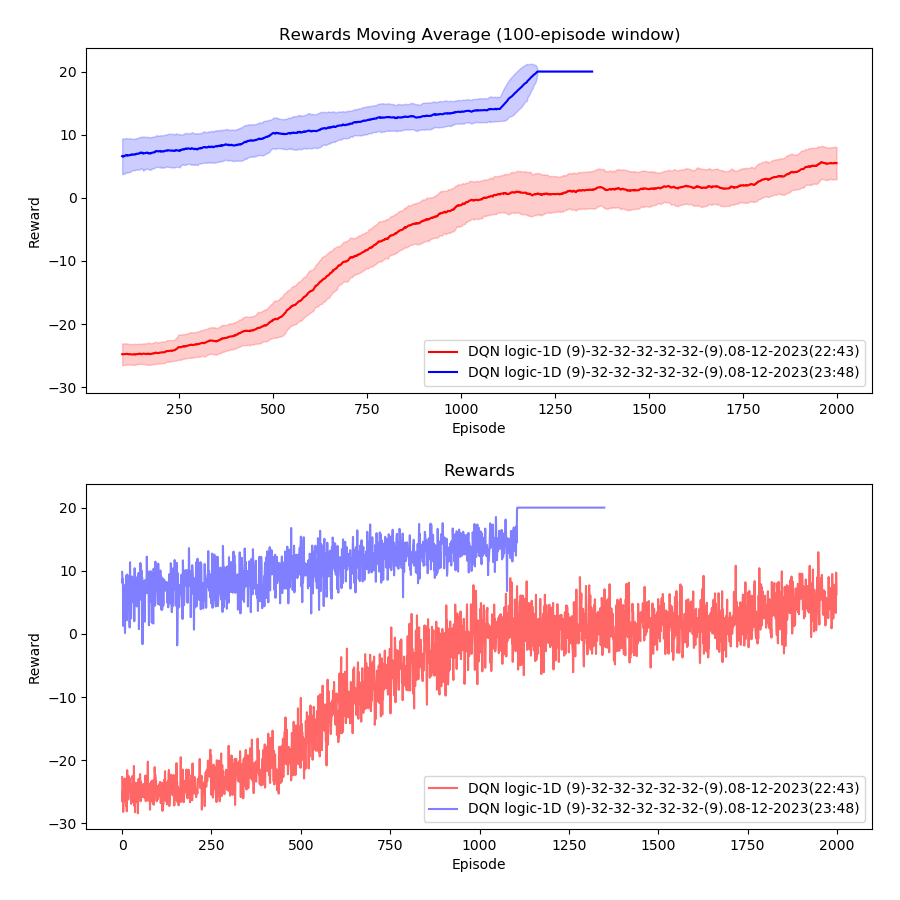
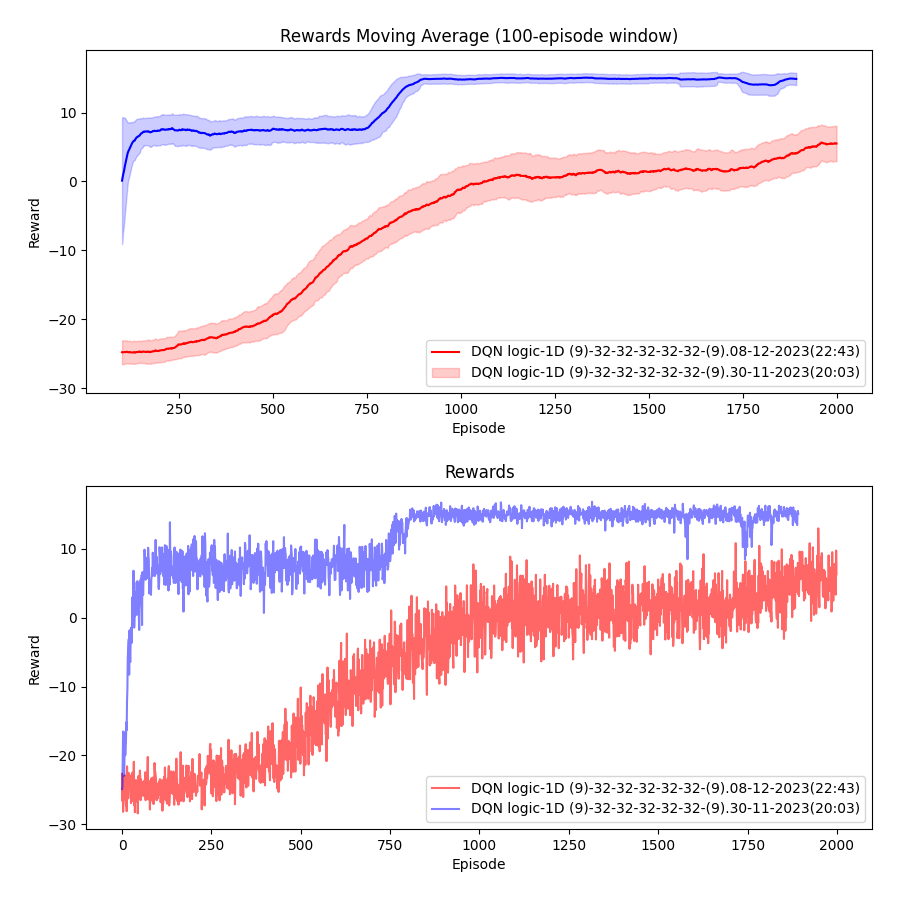
multistep, in progress

diff --git a/DQN_multistep_pyTorch.py b/DQN_multistep_pyTorch.py
@@ -57,30 +57,50 @@ class ReplayBuffer:
 	def __len__(self):
 		return len(self.buffer)
 
-class QNetwork(nn.Module):
-	def __init__(self, input_dim, action_dim, hidden_size, activation=F.relu, init_w=3e-3):
-		super(QNetwork, self).__init__()
+class symNN(nn.Module):
+	def __init__(self, input_dim, action_dim, hidden_dim, activation=F.relu, init_w=3e-3):
+		super(symNN, self).__init__()
 
-		self.linear1 = nn.Linear(input_dim, hidden_size)
-		self.linear2 = nn.Linear(hidden_size, hidden_size)
-		self.linear3 = nn.Linear(hidden_size, hidden_size)
-		self.linear4 = nn.Linear(hidden_size, hidden_size)
+		# **** h-network, also referred to as "phi" in the literature
+		# input dim = 2 because each proposition is a 2-vector
+		self.h1 = nn.Linear(2, hidden_dim, bias=True)
+		self.relu1 = nn.Tanh()
+		self.h2 = nn.Linear(hidden_dim, 9, bias=True)
+		self.relu2 = nn.Tanh()
 
-		self.logits_linear = nn.Linear(hidden_size, action_dim * 2)
-		self.logits_linear.weight.data.uniform_(-init_w, init_w)
-		self.logits_linear.bias.data.uniform_(-init_w, init_w)
+		# **** g-network, also referred to as "rho" in the literature
+		# input dim can be arbitrary, here chosen to be n_actions
+		self.g1 = nn.Linear(9, hidden_dim, bias=True)
+		self.relu3 = nn.Tanh()
 
-		self.activation = F.relu
+		# output dim must be n_actions
+		self.g2 = nn.Linear(hidden_dim, action_dim, bias=True)
 
-	def forward(self, state):
-		x = self.activation(self.linear1(state))
-		x = self.activation(self.linear2(x))
-		x = self.activation(self.linear3(x))
-		x = self.activation(self.linear4(x))
+	def forward(self, x):
+		# input dim = n_features = 9 x 3 = 27
+		# there are 9 h-networks each taking a dim-3 vector input
+		# First we need to split the input into 9 parts:
+		xs = torch.split(x, 2, dim=1)
+		# print("xs=", xs)
 
-		logits = self.logits_linear(x)
-		# logits = F.leaky_relu(self.logits_linear(x))
-		return logits
+		# h-network:
+		ys = []
+		for i in range(9 *2):					# repeat h1 9 *2 times
+			ys.append( self.relu1( self.h1(xs[i]) ))
+		zs = []
+		for i in range(9 *2):					# repeat h2 9 *2 times
+			zs.append( self.relu2( self.h2(ys[i]) ))
+
+		# add all the z's together:
+		z = torch.stack(zs, dim=1)
+		z = torch.sum(z, dim=1)
+
+		# g-network:
+		z1 = self.g1(z)
+		z1 = self.relu3(z1)
+		z2 = self.g2(z1)
+		# z2 = self.softmax(z2)
+		return z2 # = logits
 
 class DQN():
 
@@ -99,16 +119,16 @@ class DQN():
 
 		self.replay_buffer = ReplayBuffer(int(1e6))
 
-		hidden_dim = 32
-		self.q_net = QNetwork(state_dim, action_dim, hidden_dim, activation=F.relu).to(device)
+		hidden_dim = 16
+		self.symnet = symNN(state_dim, action_dim, hidden_dim, activation=F.relu).to(device)
 
 		self.q_criterion = nn.MSELoss()
-		self.q_optimizer = optim.Adam(self.q_net.parameters(), lr=self.lr)
+		self.q_optimizer = optim.Adam(self.symnet.parameters(), lr=self.lr)
 
 	def choose_action(self, state, deterministic=True):
 		state = torch.FloatTensor(state).unsqueeze(0).to(device)
 
-		logits = self.q_net(state)
+		logits = self.symnet(state)
 		probs  = torch.softmax(logits, dim=1)
 		dist   = Categorical(probs)
 		action = dist.sample().numpy()[0]
@@ -128,8 +148,8 @@ class DQN():
 		reward     = torch.FloatTensor(reward).to(device) # .to(device)  # reward is single value, unsqueeze() to add one dim to be [reward] at the sample dim;
 		done       = torch.BoolTensor(done).to(device)
 
-		logits = self.q_net(state)
-		next_logits = self.q_net(next_state)
+		logits = self.symnet(state)
+		next_logits = self.symnet(next_state)
 
 		# **** Train deep Q function, this is just Bellman equation:
 		# DQN(st,at) += η [ R + γ max_a DQN(s_t+1,a) - DQN(st,at) ]
@@ -153,16 +173,24 @@ class DQN():
 		return
 
 	def net_info(self):
-		config = "(9)-32-32-32-32-(9)"
-		neurons = config.split('-')
-		last_n = 9
+		config_h = "(2)-16-9"
+		config_g = "9-16-(9)"
 		total = 0
+		neurons = config_h.split('-')
+		last_n = 3
+		for n in neurons[1:]:
+			n = int(n)
+			total += last_n * n
+			last_n = n
+		total *= 9
+
+		neurons = config_g.split('-')
 		for n in neurons[1:-1]:
 			n = int(n)
 			total += last_n * n
 			last_n = n
 		total += last_n * 9
-		return (config, total)
+		return (config_h + ':' + config_g, total)
 
 	def play_random(self, state, action_space):
 		# Select an action (0-9) randomly

diff --git a/gym-tictactoe/gym_tictactoe/tic_tac_toe_logic_dim2.py b/gym-tictactoe/gym_tictactoe/tic_tac_toe_logic_dim2.py
@@ -16,6 +16,9 @@
 #	2) forgetting.  Perhaps we should use a list to implement this.
 #	In our simple situation we can actually have "permanent" memory and
 #	learning would still be OK.
+# * What is format of output state_vector? 9+N propositions, each of dim2,
+#	with board-propositions first, followed by thought-propositions.
+#	N need not be multiple of 9, but let's test N=9 now.
 import gym
 import numpy
 from gym import spaces, error
@@ -37,27 +40,34 @@ class TicTacToeEnv(gym.Env):
 			symbols[1]: "O",
 			2: "!"
 		}
-		self.action_space = spaces.Discrete(self.board_size * self.board_size)
+		self.action_space = spaces.Discrete(
+			self.board_size * self.board_size *2)
 
-		# State space has 9 elements, each element is a vector of dim 3
+		# State space has 9 elements, each element is a vector of dim 2
 		self.state_space = spaces.Box(
 		# The entries indicate the min and max values of the "box":
-			numpy.array(numpy.float32( [2, 9] * 9 * 2)), \
-			numpy.array(numpy.float32( [-2, -9] * 9 * 2))  )
+			numpy.array(numpy.float32( [2, 4] * 9 * 2)), \
+			numpy.array(numpy.float32( [-2, -4] * 9 * 2))  )
 		# 2 means "bad move", -2 means "intermediate thought"
 
 		self.rewards = {
-			'still_in_game': 0.3,
+			'still_in_game': 0.1,
 			'draw': 10.0,
 			'win': 20.0,
 			'bad_position': -30.0
 			}
 
 	def reset(self):
-		self.board =        (self.board_size * self.board_size) * [0]
-		self.state_vector = (2 * 2 * self.board_size * self.board_size) * [0]
-		self.index = 0	# current state_vector position to write into
-		self.memory =       (self.board_size * self.board_size) * [0]
+		self.board = (self.board_size * self.board_size) * [0]
+		# fill state vector with 9 empty squares and 9 null propositions:
+		self.state_vector = []
+		for i in range(0, self.board_size * self.board_size):
+			self.state_vector += [0,i]
+		for i in range(0, self.board_size * self.board_size):
+			self.state_vector += [-2,0]
+		self.index = 0	 # current state_vector position to write into
+		self.m_index = 9 # beginning of memory propositions
+		self.memory = (self.board_size * self.board_size) * [0]
 		return numpy.array(self.state_vector)
 
 	# -------------------- GAME STATE CHECK -------------------------
@@ -139,25 +149,35 @@ class TicTacToeEnv(gym.Env):
 	def step(self, action, symbol):
 		global board, state_vector
 
+		is_position_already_used = False
+
 		if action >= 9:		# action is an intermediate thought
-			self.memory[action - 9] = 1
-			self.state_vector[self.index] = -2
+			if self.memory[action -9] == 0:		# check for repetition
+				self.state_vector[self.m_index] = -2
+				# next element is in range [-4,4], represents position:
+				self.state_vector[self.m_index +1] = action -9 -4
+				self.m_index += 2
+				assert self.m_index <= 18, "Memory index overflow"
+			else:
+
+			reward_type = 'still_in_game'
+			done = False
 
 		else:				# normal action
-			
-			is_position_already_used = False
 
 			if self.board[action] != 0:
 				is_position_already_used = True
 
 			if is_position_already_used:
 				self.board[action] = 2
-				self.state_vector[self.index] = 0	# this seems not matter
+				self.state_vector[self.index] = 2	# this seems not matter
+				self.state_vector[self.index +1] = action -4
 				reward_type = 'bad_position'
 				done = True
 			else:
 				self.board[action] = symbol
-				self.state_vector[self.index] = (action + 1) * symbol
+				self.state_vector[self.index] = symbol
+				self.state_vector[self.index +1] = action -4
 
 				if self.is_win():
 					reward_type = 'win'
@@ -169,7 +189,9 @@ class TicTacToeEnv(gym.Env):
 					reward_type = 'still_in_game'
 					done = False
 
-		self.index += 1
+			self.m_index = 9		# clear memories
+			
+			self.index += 2
 
 		return numpy.array(self.state_vector), self.rewards[reward_type], done, {'already_used_position': is_position_already_used}
 

diff --git a/run_TicTacToe.py b/run_TicTacToe.py
@@ -72,12 +72,17 @@ elif config == 23:
 elif config == 24:
 	from DQN_logic_symNN_pyTorch import DQN, ReplayBuffer
 	tag = "DQN.logic.symNN"
+elif config == 25:
+	from DQN_multistep_pyTorch import DQN, ReplayBuffer
+	tag = "DQN.multistep"
 
 import gym_tictactoe
 if config in [10, 12, 14, 21, 22, 24]:
 	env = gym.make('TicTacToe-logic-v0', symbols=[-1, 1], board_size=3, win_size=3)
 elif config == 23:
 	env = gym.make('TicTacToe-logic-dim1-v0', symbols=[-1, 1], board_size=3, win_size=3)
+elif config == 25:
+	env = gym.make('TicTacToe-logic-dim2-v0', symbols=[-1, 1], board_size=3, win_size=3)
 else:
 	env = gym.make('TicTacToe-plain-v0', symbols=[-1, 1], board_size=3, win_size=3)
 
@@ -95,6 +100,13 @@ elif config in [20, 21, 22, 23, 24]:
 	RL = DQN(
 		action_dim = env.action_space.n,
 		state_dim = env.state_space.shape[0],
+		learning_rate = 0.001,
+		gamma = 0.9,	# doesn't matter for gym TicTacToe
+	)
+elif config == 25:
+	RL = DQN(
+		action_dim = env.action_space.n,
+		state_dim = env.state_space.shape[0],	# ignored, using dim=2
 		learning_rate = 0.001,
 		gamma = 0.9,	# doesn't matter for gym TicTacToe
 	)

diff --git a/DQN_logic_symNN_pyTorch.py b/DQN_logic_symNN_pyTorch.py
@@ -161,8 +161,8 @@ class DQN():
 		return
 
 	def net_info(self):
-		config_h = "(3)-10-8"
-		config_g = "8-(9)"
+		config_h = "(3)-16-9"
+		config_g = "9-16-(9)"
 		total = 0
 		neurons = config_h.split('-')
 		last_n = 3
@@ -178,7 +178,7 @@ class DQN():
 			total += last_n * n
 			last_n = n
 		total += last_n * 9
-		return (config_h + 'x' + config_g, total)
+		return (config_h + ':' + config_g, total)
 
 	def play_random(self, state, action_space):
 		# NOTE: random player never chooses occupied squares

diff --git a/gym-tictactoe/gym_tictactoe/__init__.py b/gym-tictactoe/gym_tictactoe/__init__.py
@@ -20,3 +20,9 @@ register(
     entry_point='gym_tictactoe.tic_tac_toe_logic_dim1:TicTacToeEnv',
     reward_threshold=1000
 )
+
+register(
+    id='TicTacToe-logic-dim2-v0',	# logic dim2, with intermediate memory
+    entry_point='gym_tictactoe.tic_tac_toe_logic_dim2:TicTacToeEnv',
+    reward_threshold=1000
+)

diff --git a/README-RL-with-autoencoder.md b/README-RL-with-autoencoder.md
@@ -49,20 +49,20 @@ AE 根据的是 reconstruction error
 1. 很明显 x + δx 是 x 的 下一个 reachable 状态。 
 2. x + δx 的价值是外在定义的，但它跟 x + δx 的形式无关
 3. 它是 action δx 导致的，这似乎跟动力学方程有关
-4. 这是一种 状态 algebra 结构，原来的 RL 推演中没
+4. 这是一种 状态 algebra 结构，原来的 RL 推演中没有
 5. algebra of states 是如何影响 RL 的 formulation？
 似乎最简单的答案就是 定义 R(δx), 即每个 **命题** 的奖励。
 而 x 的奖励是 根据 δx 决定的。 甚至反而更直观、更易处理。
 
 余下问题：RL 跟 AE 的互相干涉
 
-1. RL 干涉 AE
+1. RL 干涉 AE：  
 AE 的中部突然出现外来的 tokens 会否影响其收敛？
 RL 导致出现的是：a）关于事实的思考，b）关于行动的思考
 然后用这些来预测世界，合适吗？ (a) 还可以，但 (b) 似乎有些牵强？
 （例如期待某人被暗杀、所以关注军队有否叛变等各种蛛丝马迹）
 
-2. AE 干涉 RL
+2. AE 干涉 RL：  
 RL 的状态中突然出现外来的 δx 会否影响 RL 的收敛？
 应该不会，因为状态从来是随着世界改变的。
 
